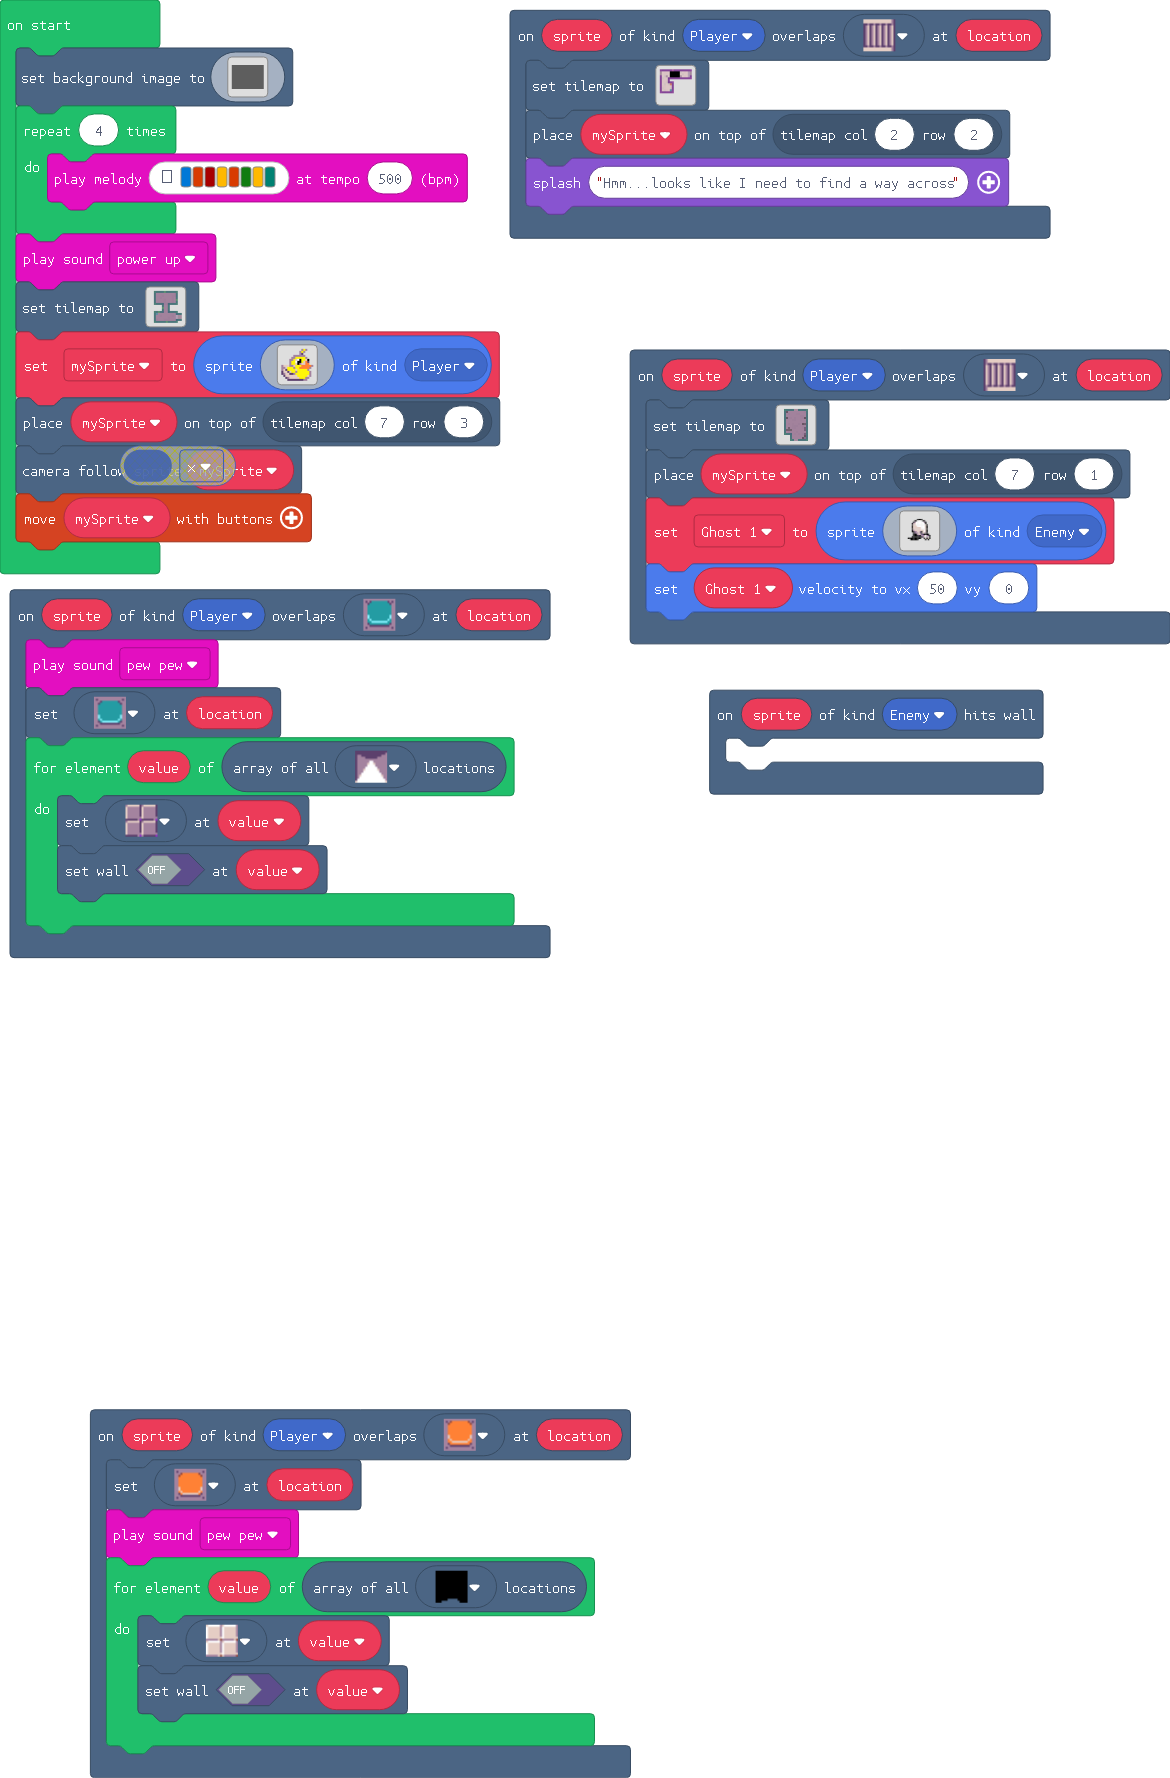
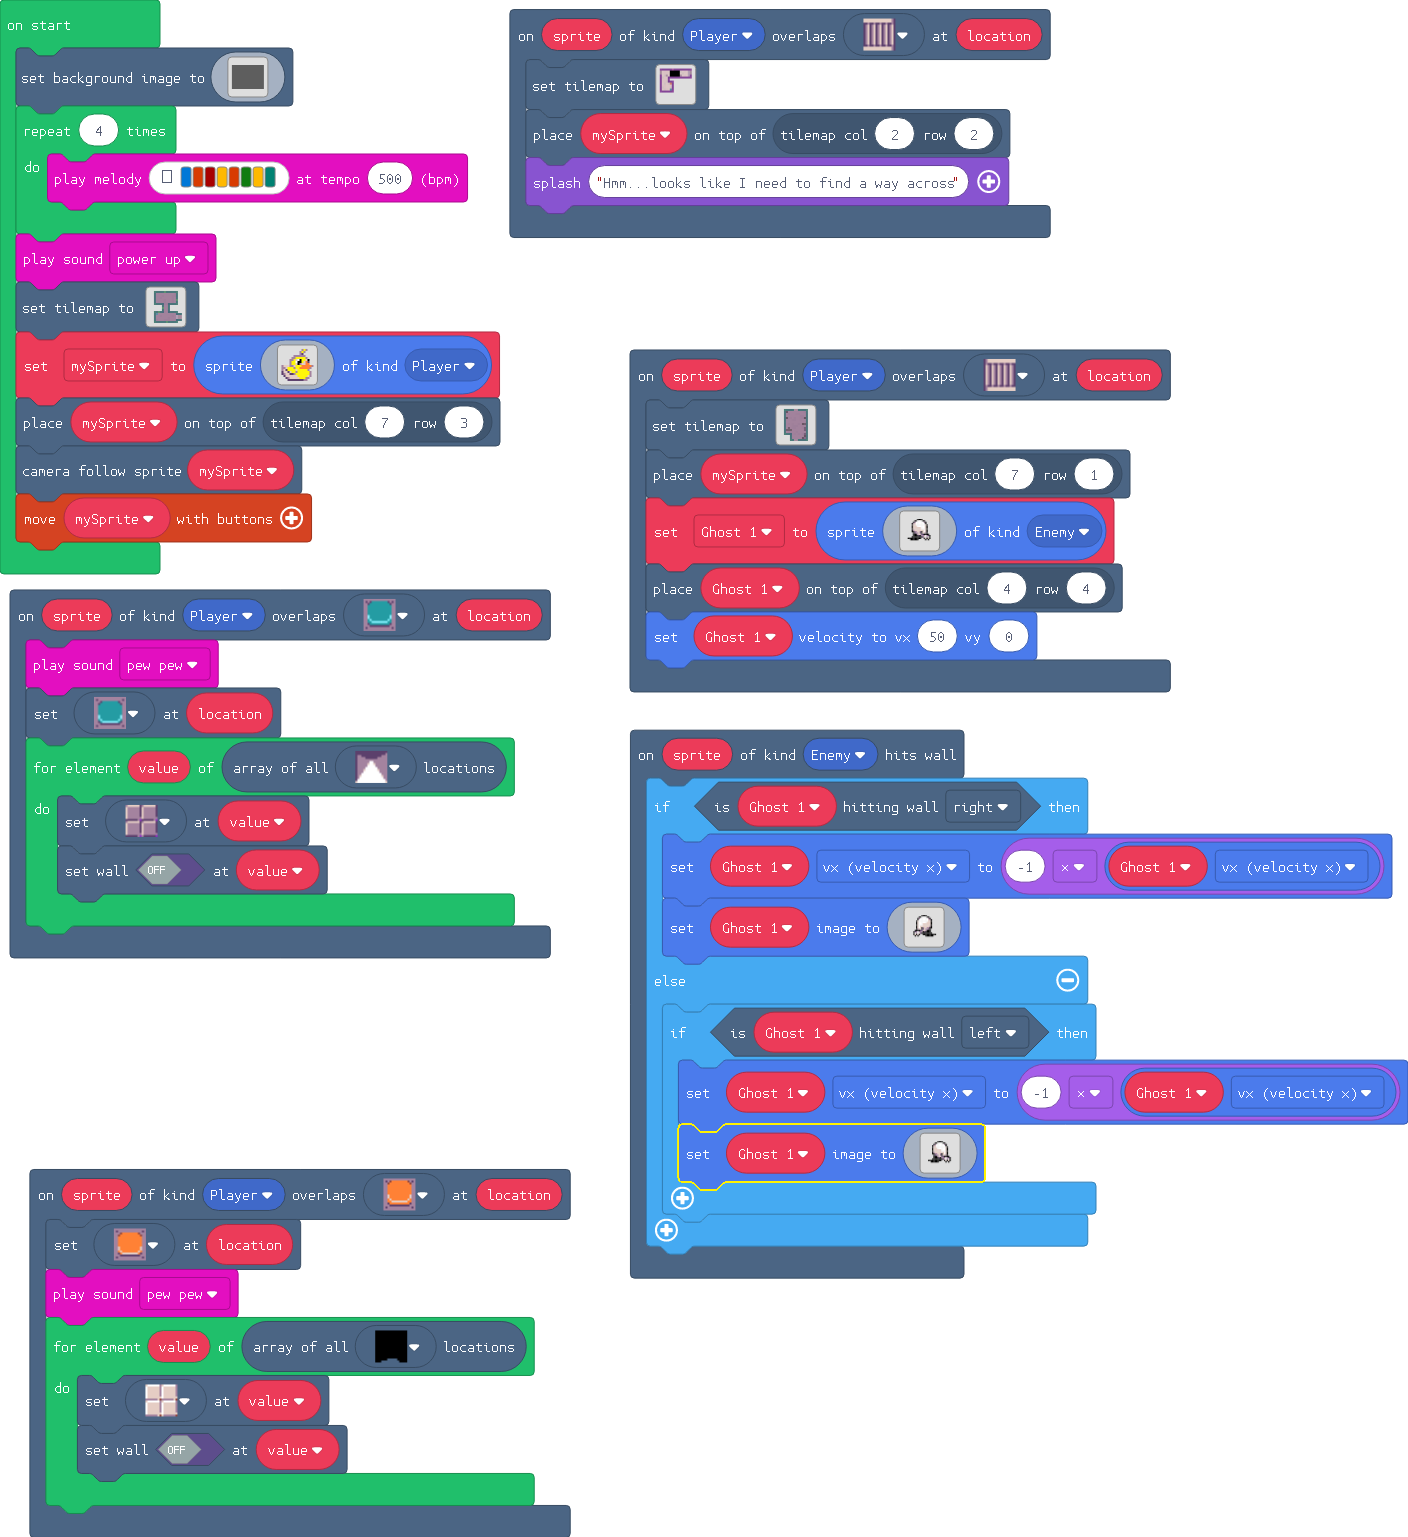
Added moving enemies, with moving images.

diff --git a/main.ts b/main.ts
@@ -143,10 +143,69 @@ scene.onOverlapTile(SpriteKind.Player, sprites.dungeon.stairEast, function (spri
 . . . . . . . . . . . . . . . . . . . . . . . . 
 . . . . . . . . . . . . . . . . . . . . . . . . 
 `, SpriteKind.Enemy)
+    tiles.placeOnTile(Ghost_1, tiles.getTileLocation(4, 4))
     Ghost_1.setVelocity(50, 0)
 })
 scene.onHitWall(SpriteKind.Enemy, function (sprite) {
-	
+    if (Ghost_1.isHittingTile(CollisionDirection.Right)) {
+        Ghost_1.vx = -1 * Ghost_1.vx
+        Ghost_1.setImage(img`
+. . . . . . . . . . . . . . . . . . . . . . . . 
+. . . . . . . . . . . . . . . . . . . . . . . . 
+. . . . . . . . . . . . . . . . . . . . . . . . 
+. . . . . . . . . . f f f f . . . . . . . . . . 
+. . . . . . . . f f 1 1 1 1 f f . . . . . . . . 
+. . . . . . . f b 1 1 1 1 1 1 b f . . . . . . . 
+. . . . . . . f 1 1 1 1 1 1 1 d b f . . . . . . 
+. . . . . . f d 1 1 1 1 1 1 1 d d f . . . . . . 
+. . . . . . f d 1 1 1 1 1 1 d d d f . . . . . . 
+. . . . . . f d 1 1 1 d d d d d d f . . . . . . 
+. . . . . . f d 1 1 1 d d d d d d f . . . . . . 
+. . . . . . f d 1 d d d d d d d b f . . . . . . 
+. . . . . . f d 1 d f b d d b b f f . . . . . . 
+. . . . . . f b d d f c d b b c f . . . . . . . 
+. . . . . f f f f c c d d b f f f . . . . . . . 
+. . . . f c b 1 b b b f c f f f f . . . . . . . 
+. . . . f 1 b 1 d c f f f f f f f f . . . . . . 
+. . . . f d f d f . . f f f f f f f f f f . . . 
+. . . . . f . f . . . . . f f f f f f . . . . . 
+. . . . . . . . . . . . . . . . . . . . . . . . 
+. . . . . . . . . . . . . . . . . . . . . . . . 
+. . . . . . . . . . . . . . . . . . . . . . . . 
+. . . . . . . . . . . . . . . . . . . . . . . . 
+. . . . . . . . . . . . . . . . . . . . . . . . 
+`)
+    } else {
+        if (Ghost_1.isHittingTile(CollisionDirection.Left)) {
+            Ghost_1.vx = -1 * Ghost_1.vx
+            Ghost_1.setImage(img`
+. . . . . . . . . . . . . . . . . . . . . . . . 
+. . . . . . . . . . . . . . . . . . . . . . . . 
+. . . . . . . . . . . . . . . . . . . . . . . . 
+. . . . . . . . . . f f f f . . . . . . . . . . 
+. . . . . . . . f f 1 1 1 1 f f . . . . . . . . 
+. . . . . . . f b 1 1 1 1 1 1 b f . . . . . . . 
+. . . . . . f b d 1 1 1 1 1 1 1 f . . . . . . . 
+. . . . . . f d d 1 1 1 1 1 1 1 d f . . . . . . 
+. . . . . . f d d d 1 1 1 1 1 1 d f . . . . . . 
+. . . . . . f d d d d d d 1 1 1 d f . . . . . . 
+. . . . . . f d d d d d d 1 1 1 d f . . . . . . 
+. . . . . . f b d d d d d d d 1 d f . . . . . . 
+. . . . . . f f b b d d b f d 1 d f . . . . . . 
+. . . . . . . f c b b d c f d d b f . . . . . . 
+. . . . . . . f f f b d d c c f f f f . . . . . 
+. . . . . . . f f f f c f b b b 1 b c f . . . . 
+. . . . . . f f f f f f f f c d 1 b 1 f . . . . 
+. . . f f f f f f f f f f . . f d f d f . . . . 
+. . . . . f f f f f f . . . . . f . f . . . . . 
+. . . . . . . . . . . . . . . . . . . . . . . . 
+. . . . . . . . . . . . . . . . . . . . . . . . 
+. . . . . . . . . . . . . . . . . . . . . . . . 
+. . . . . . . . . . . . . . . . . . . . . . . . 
+. . . . . . . . . . . . . . . . . . . . . . . . 
+`)
+        }
+    }
 })
 scene.onOverlapTile(SpriteKind.Player, sprites.dungeon.buttonOrange, function (sprite, location) {
     tiles.setTileAt(location, sprites.dungeon.buttonOrangeDepressed)
